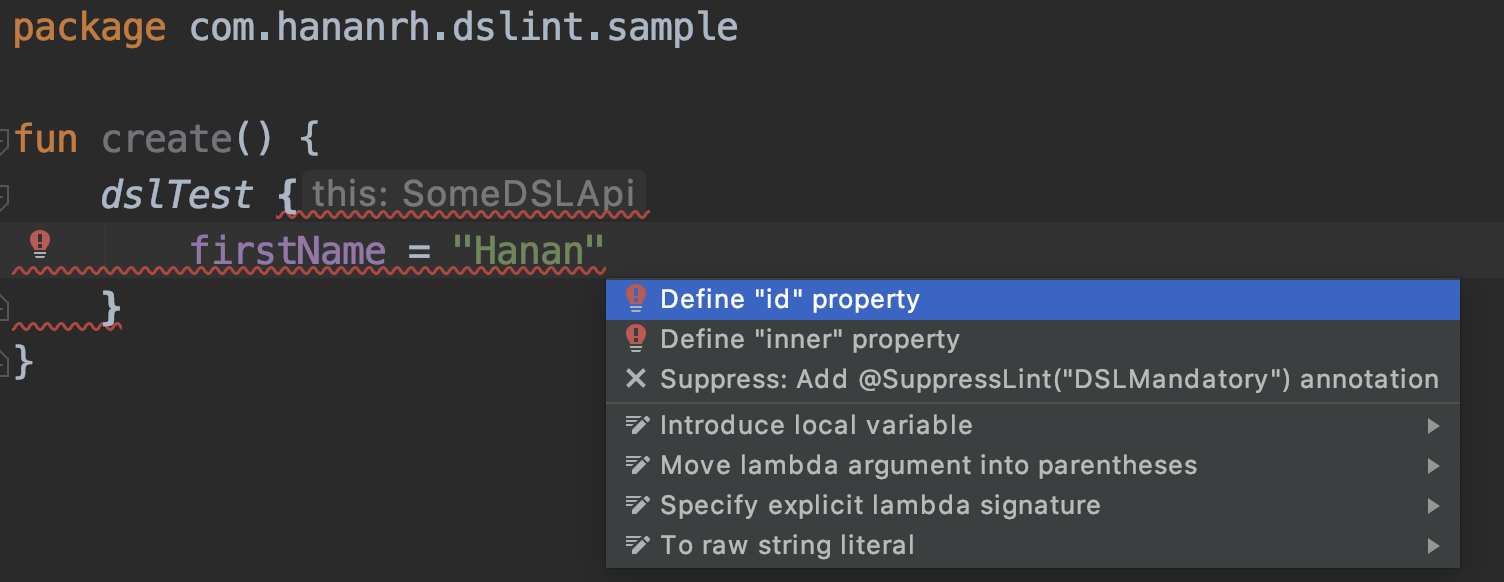
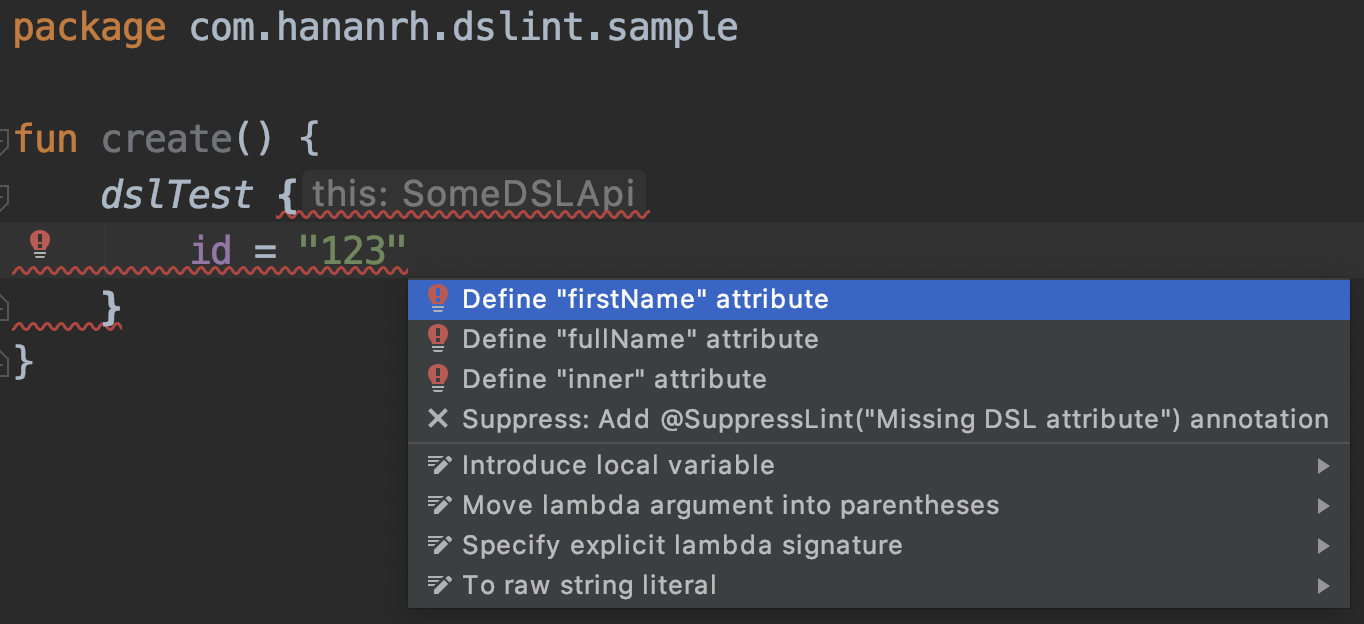
Updated readme and images

Changed region(s): [[0.0, 0.1856, 1.0, 0.9897], [0.0, 0.0, 0.5543, 0.0928]]

diff --git a/README.md b/README.md
@@ -1,7 +1,7 @@
 DSLint
 ============
 
-A lightweight Android linter for Kotlin DSL aimed to solve the problem of verifying mandatory DSL properties at compile time.
+A lightweight Android linter for Kotlin DSL aimed to solve the problem of verifying mandatory DSL attributes at compile time.
 ---
  
 Usage
